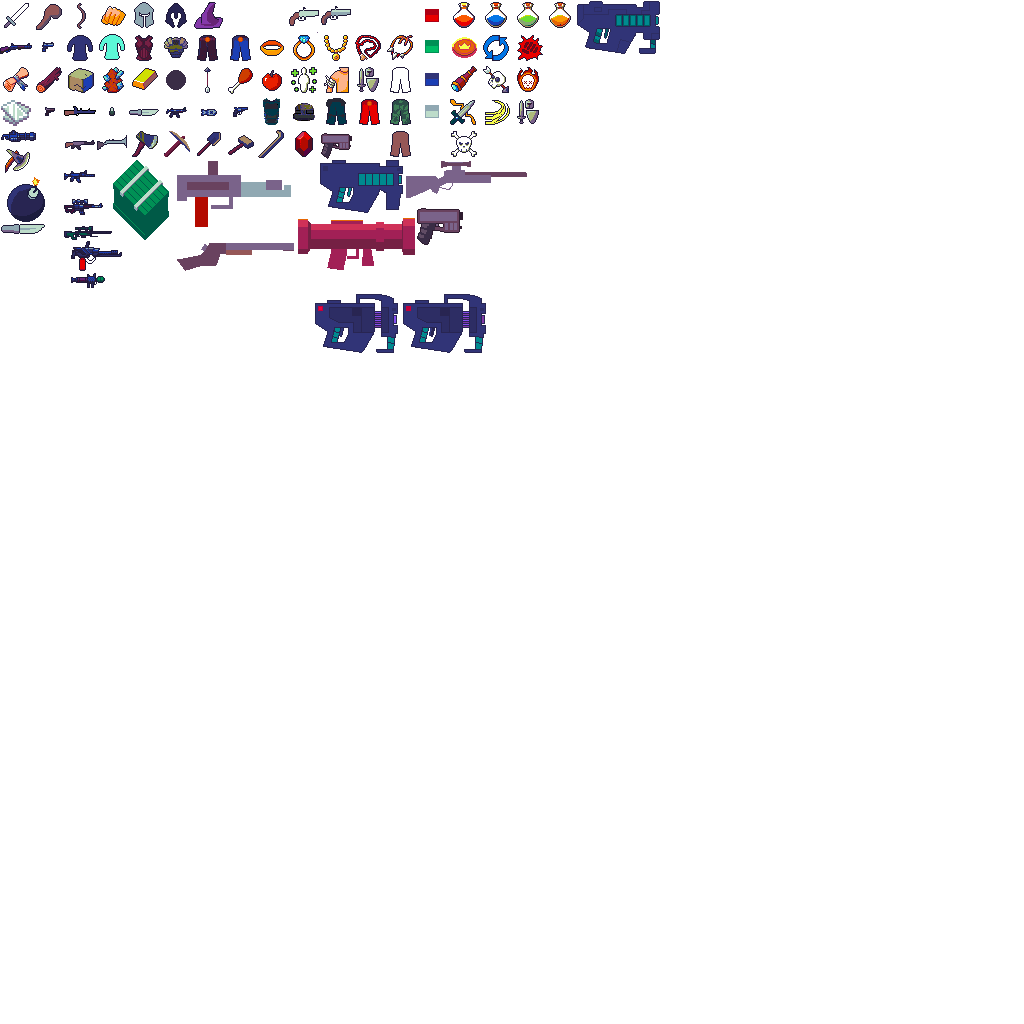
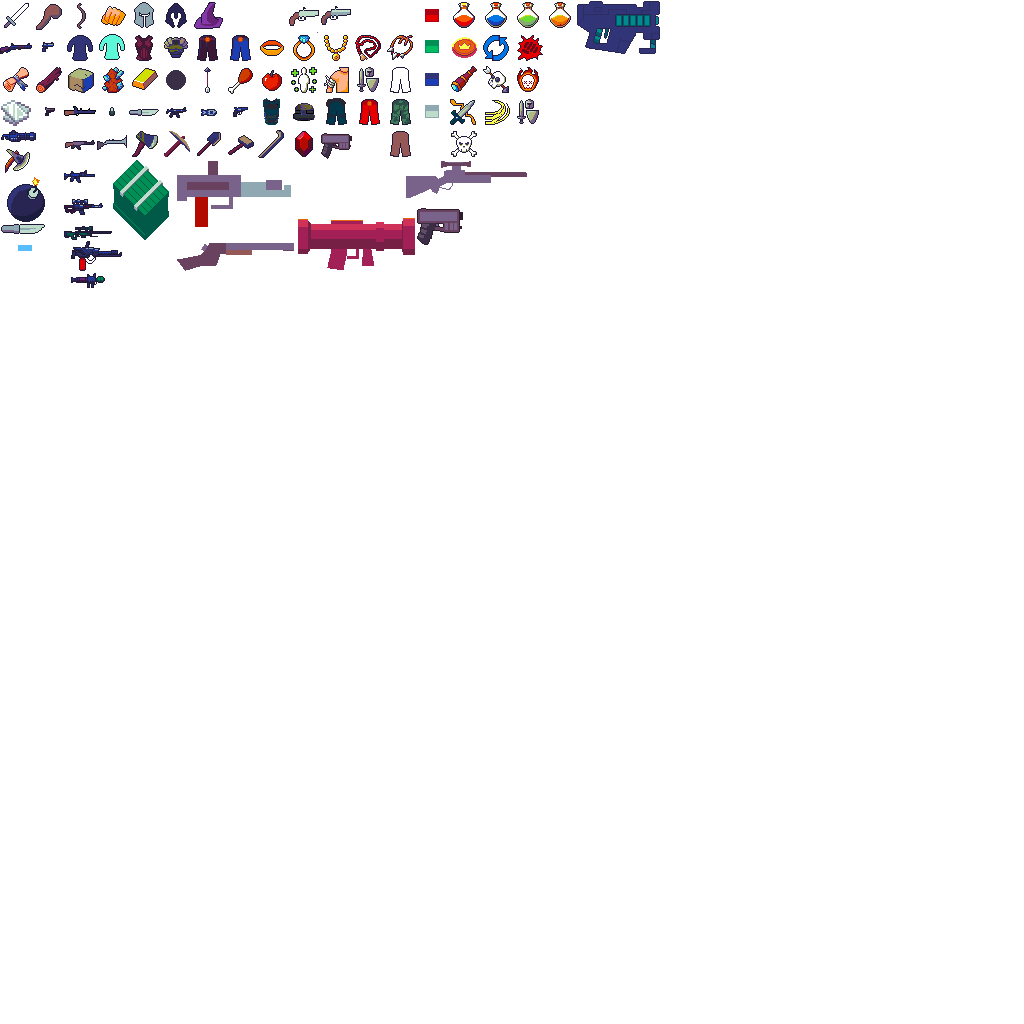
0.8.003

Changed region(s): [[0.3125, 0.2812, 0.5, 0.3438], [0.3125, 0.1562, 0.4062, 0.2188]]

diff --git a/bleed-server/lib/src/classes/src/game.dart b/bleed-server/lib/src/classes/src/game.dart
@@ -13,8 +13,6 @@ import 'game_time.dart';
 
 
 abstract class Game {
-  static final Cost_Map = <int, int>{ };
-
   final int gameType;
   var frame = 0;
   var _running = true;
@@ -29,8 +27,6 @@ abstract class Game {
   var _timerUpdateAITargets = 0;
   var gameObjectId = 0;
   var playerId = 0;
-
-
   GameEnvironment environment;
   GameTime time;
 
@@ -612,6 +608,23 @@ abstract class Game {
       throw Exception('ai cannot throw grenades');
     }
 
+    if (weaponType == ItemType.Weapon_Ranged_Teleport){
+      if (character is! Player){
+        throw Exception('ai cannot teleport');
+      }
+      final range = ItemType.getRange(ItemType.Weapon_Ranged_Teleport);
+
+      if (character.withinDistance(character.mouseGridX, character.mouseGridY, character.z, range)){
+        character.x = character.mouseGridX;
+        character.y = character.mouseGridY;
+      } else {
+        final r = radian(x1: character.x, y1: character.y, x2: character.mouseGridX, y2: character.mouseGridY);
+        character.x = character.x + getAdjacent(r, range);
+        character.y = character.y + getOpposite(r, range);
+      }
+      return;
+    }
+
     if (weaponType == ItemType.Weapon_Ranged_Flamethrower){
       if (character is Player){
         playerUseFlamethrower(character);
@@ -960,7 +973,6 @@ abstract class Game {
     customOnNodeDestroyed(nodeType, nodeIndex, nodeOrientation);
   }
 
-
   bool characterMeleeAttackTargetInRange(Character character) {
     assert (character.active);
     assert (character.alive);
@@ -969,10 +981,10 @@ abstract class Game {
     if (character.deadBusyOrWeaponStateBusy) return false;
 
     final angle = character.lookRadian;
-    final attackRadius = ItemType.getMeleeAttackRadius(character.weaponType);
+    final attackRadius = ItemType.getMeleeAttackRadius(character.weaponType) * 0.75;
 
     if (attackRadius <= 0) {
-      throw Exception('ItemType.getRange(${ItemType.getName(character.weaponType)})');
+      return false;
     }
 
     final attackRadiusHalf = attackRadius * 0.5;
@@ -2003,7 +2015,6 @@ abstract class Game {
     double force = 20,
     bool friendlyFire = false,
   }) {
-    // assert (target.active);
     if (!target.hitable) return;
     if (!target.active) return;
 

diff --git a/gamestream_flutter/lib/game_atlas.dart b/gamestream_flutter/lib/game_atlas.dart
@@ -84,6 +84,7 @@ class AtlasItems {
         ItemType.Weapon_Ranged_Bazooka: 298,
         ItemType.Weapon_Ranged_Minigun: 1,
         ItemType.Weapon_Ranged_Plasma_Pistol: 417,
+        ItemType.Weapon_Ranged_Teleport: 6,
         ItemType.Resource_Wood: 32,
         ItemType.Resource_Stone: 64,
         ItemType.Resource_Crystal: 96,
@@ -190,6 +191,7 @@ class AtlasItems {
         ItemType.Weapon_Ranged_Bazooka: 219,
         ItemType.Weapon_Ranged_Minigun: 130,
         ItemType.Weapon_Ranged_Plasma_Pistol: 208,
+        ItemType.Weapon_Ranged_Teleport: 242,
         ItemType.Base_Health: 64,
         ItemType.Base_Energy: 64,
         ItemType.Base_Damage: 64,
@@ -239,6 +241,7 @@ class AtlasItems {
         ItemType.Weapon_Ranged_Machine_Gun: 319,
         ItemType.Weapon_Ranged_Shotgun: 117,
         ItemType.Weapon_Ranged_Plasma_Pistol: 46,
+        ItemType.Weapon_Ranged_Teleport: 34,
         ItemType.Weapon_Thrown_Grenade: 38,
         ItemType.Weapon_Melee_Knife: 44,
         ItemType.Consumables_Ammo_Box: 56,
@@ -283,6 +286,7 @@ class AtlasItems {
         ItemType.Weapon_Ranged_Plasma_Rifle: 53,
         ItemType.Weapon_Ranged_Shotgun: 28,
         ItemType.Weapon_Ranged_Plasma_Pistol: 37,
+        ItemType.Weapon_Ranged_Teleport: 12,
         ItemType.Weapon_Ranged_Flamethrower: 66,
         ItemType.Weapon_Thrown_Grenade: 45,
         ItemType.Weapon_Melee_Knife: 10,

diff --git a/bleed-common/lib/src/item_type.dart b/bleed-common/lib/src/item_type.dart
@@ -158,6 +158,7 @@ class ItemType {
   static const Weapon_Ranged_Crossbow     = Index_Weapon_Ranged + 16;
   static const Weapon_Ranged_Plasma_Rifle = Index_Weapon_Ranged + 17;
   static const Weapon_Ranged_Plasma_Pistol= Index_Weapon_Ranged + 18;
+  static const Weapon_Ranged_Teleport     = Index_Weapon_Ranged + 19;
 
   static const Recipes = <int, List<int>> {
     Consumables_Apple: const [
@@ -492,6 +493,7 @@ class ItemType {
       Weapon_Ranged_Revolver: 400,
       Weapon_Ranged_Bow: 300,
       Weapon_Ranged_Crossbow: 400,
+      Weapon_Ranged_Teleport: 400,
       Weapon_Melee_Sword: 65,
       Weapon_Melee_Knife: 40,
       Weapon_Melee_Axe: 55,
@@ -639,6 +641,7 @@ class ItemType {
      Weapon_Ranged_Minigun: "Minigun",
      Weapon_Ranged_Plasma_Rifle: "Plasma Rifle",
      Weapon_Ranged_Plasma_Pistol: "Plasma Pistol",
+     Weapon_Ranged_Teleport: "Teleportor",
      Weapon_Ranged_Bow: "Bow",
      Consumables_Apple: "Apple",
      Consumables_Meat: "Meat",
@@ -840,6 +843,7 @@ class ItemType {
      Weapon_Ranged_Flamethrower,
      Weapon_Ranged_Plasma_Pistol,
      Weapon_Ranged_Plasma_Rifle,
+     Weapon_Ranged_Teleport,
   ];
 
   static const Item_Group_Secondary_Weapons = [

diff --git a/bleed-server/lib/common/src/item_type.dart b/bleed-server/lib/common/src/item_type.dart
@@ -158,6 +158,7 @@ class ItemType {
   static const Weapon_Ranged_Crossbow     = Index_Weapon_Ranged + 16;
   static const Weapon_Ranged_Plasma_Rifle = Index_Weapon_Ranged + 17;
   static const Weapon_Ranged_Plasma_Pistol= Index_Weapon_Ranged + 18;
+  static const Weapon_Ranged_Teleport     = Index_Weapon_Ranged + 19;
 
   static const Recipes = <int, List<int>> {
     Consumables_Apple: const [
@@ -492,6 +493,7 @@ class ItemType {
       Weapon_Ranged_Revolver: 400,
       Weapon_Ranged_Bow: 300,
       Weapon_Ranged_Crossbow: 400,
+      Weapon_Ranged_Teleport: 400,
       Weapon_Melee_Sword: 65,
       Weapon_Melee_Knife: 40,
       Weapon_Melee_Axe: 55,
@@ -639,6 +641,7 @@ class ItemType {
      Weapon_Ranged_Minigun: "Minigun",
      Weapon_Ranged_Plasma_Rifle: "Plasma Rifle",
      Weapon_Ranged_Plasma_Pistol: "Plasma Pistol",
+     Weapon_Ranged_Teleport: "Teleportor",
      Weapon_Ranged_Bow: "Bow",
      Consumables_Apple: "Apple",
      Consumables_Meat: "Meat",
@@ -840,6 +843,7 @@ class ItemType {
      Weapon_Ranged_Flamethrower,
      Weapon_Ranged_Plasma_Pistol,
      Weapon_Ranged_Plasma_Rifle,
+     Weapon_Ranged_Teleport,
   ];
 
   static const Item_Group_Secondary_Weapons = [

diff --git a/bleed-server/lib/src/games/game_combat.dart b/bleed-server/lib/src/games/game_combat.dart
@@ -55,6 +55,7 @@ class GameCombat extends Game {
     ItemType.Weapon_Ranged_Plasma_Pistol,
     ItemType.Weapon_Ranged_Plasma_Rifle,
     ItemType.Weapon_Ranged_Sniper_Rifle,
+    ItemType.Weapon_Ranged_Teleport,
     ItemType.Weapon_Ranged_Shotgun,
     ItemType.Weapon_Melee_Crowbar,
     ItemType.Weapon_Melee_Pickaxe,
@@ -99,7 +100,8 @@ class GameCombat extends Game {
     player.bodyType = randomItem(ItemType.Collection_Clothing_Body);
     player.legsType = randomItem(ItemType.Collection_Clothing_Legs);
 
-    final weaponPrimary = ItemType.Weapon_Ranged_Plasma_Pistol;
+    // final weaponPrimary = ItemType.Weapon_Ranged_Plasma_Pistol;
+    final weaponPrimary = ItemType.Weapon_Ranged_Teleport;
     final weaponSecondary = ItemType.Weapon_Melee_Knife;
     final weaponTertiary = randomItem(const[
       ItemType.Weapon_Melee_Knife,
@@ -123,7 +125,7 @@ class GameCombat extends Game {
     player.weaponSecondary = weaponSecondary;
     player.weaponTertiary = weaponTertiary;
     player.weaponType = weaponPrimary;
-    player.grenades = 3;
+    player.grenades = 1;
     player.writePlayerEquipment();
   }
 

diff --git a/gamestream_flutter/lib/game_images.dart b/gamestream_flutter/lib/game_images.dart
@@ -132,6 +132,8 @@ class GameImages {
       switch (weaponType) {
          case ItemType.Weapon_Ranged_Machine_Gun:
             return template_weapon_ak47;
+         case ItemType.Weapon_Ranged_Teleport:
+            return template_weapon_bazooka;
          case ItemType.Weapon_Ranged_Plasma_Rifle:
             return template_weapon_plasma_rifle;
          case ItemType.Weapon_Melee_Knife:

diff --git a/bleed-common/lib/src/version.dart b/bleed-common/lib/src/version.dart
@@ -1,4 +1,4 @@
-const version = '0.8.002';
+const version = '0.8.003';
 
 
 

diff --git a/bleed-server/lib/common/src/version.dart b/bleed-server/lib/common/src/version.dart
@@ -1,4 +1,4 @@
-const version = '0.8.002';
+const version = '0.8.003';
 
 
 
